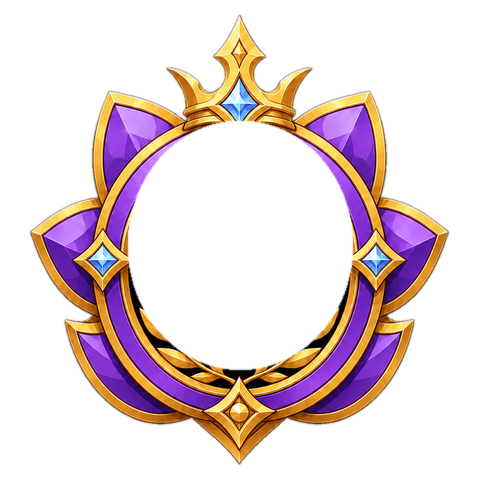
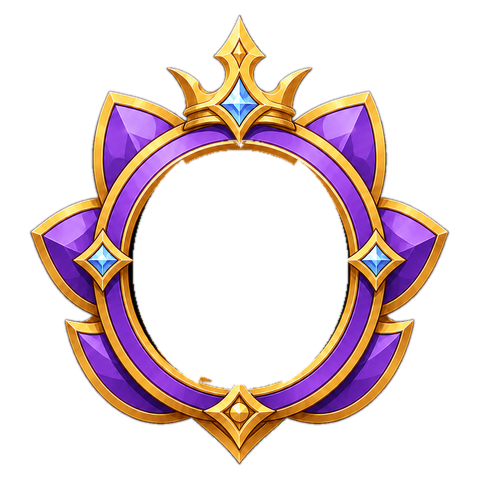
Badge frames: preserve top+bottom gem outlines on Divine + Noble, clean interior

Changed region(s): [[0.25, 0.25, 0.75, 0.625], [0.2812, 0.5938, 0.7188, 0.8125]]

diff --git a/src/components/BadgesShowcase.tsx b/src/components/BadgesShowcase.tsx
@@ -111,8 +111,8 @@ const FRAME_WINDOW: Record<
   BadgeTier,
   { cx: number; cy: number; w: number; h: number }
 > = {
-  divine: { cx: 50, cy: 50, w: 47, h: 53 },
-  noble: { cx: 50, cy: 51, w: 51, h: 56 },
+  divine: { cx: 50, cy: 52.5, w: 42, h: 51 },
+  noble: { cx: 50, cy: 55.5, w: 49, h: 57 },
   primal: { cx: 50, cy: 49, w: 56, h: 52 },
   verdant: { cx: 50, cy: 51, w: 46, h: 46 },
   earthen: { cx: 50, cy: 52, w: 56, h: 56 },
